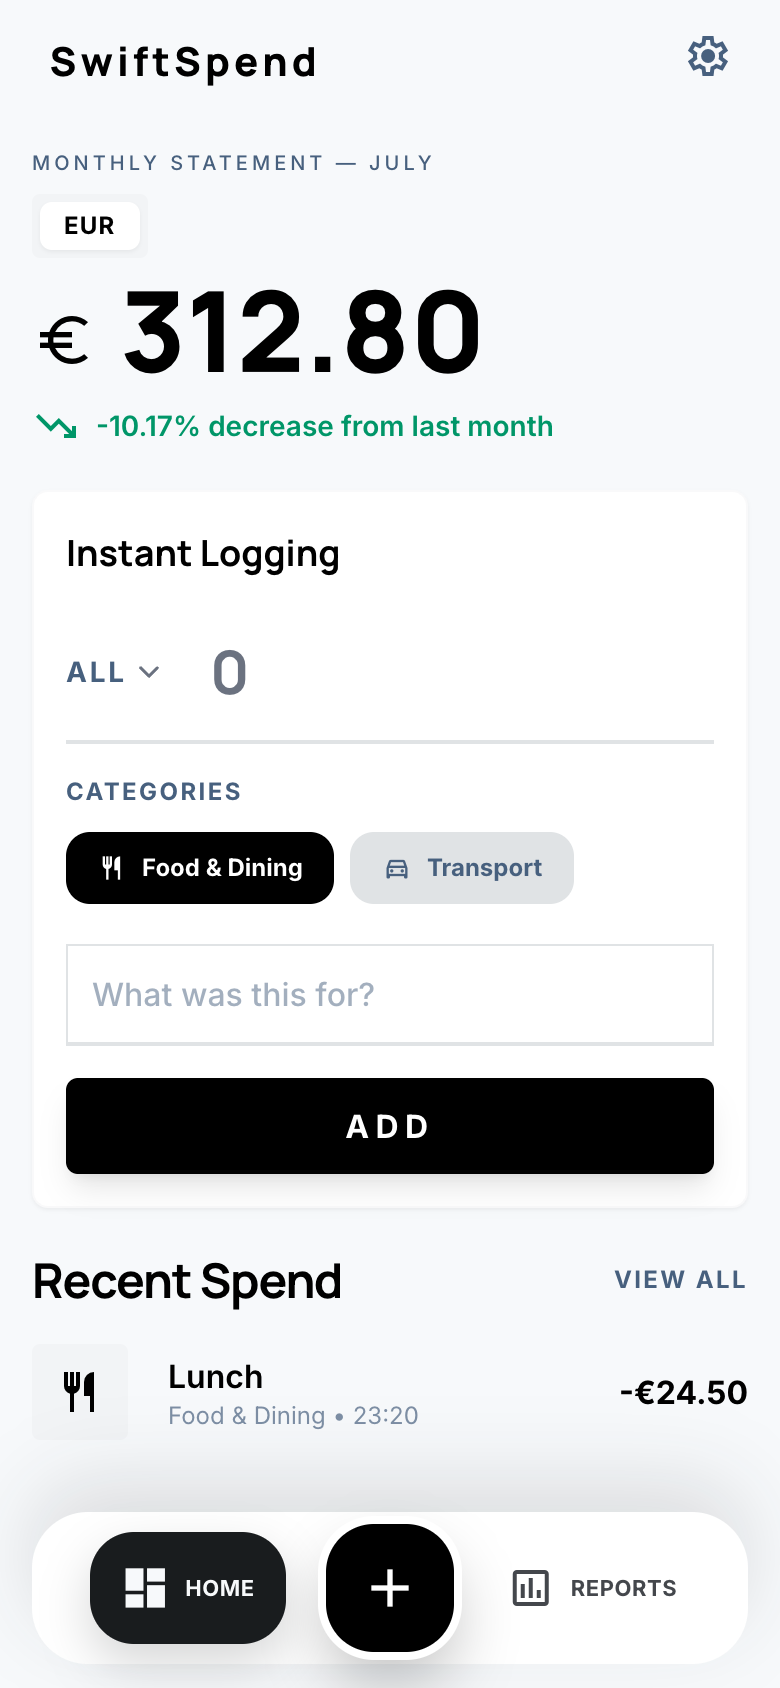
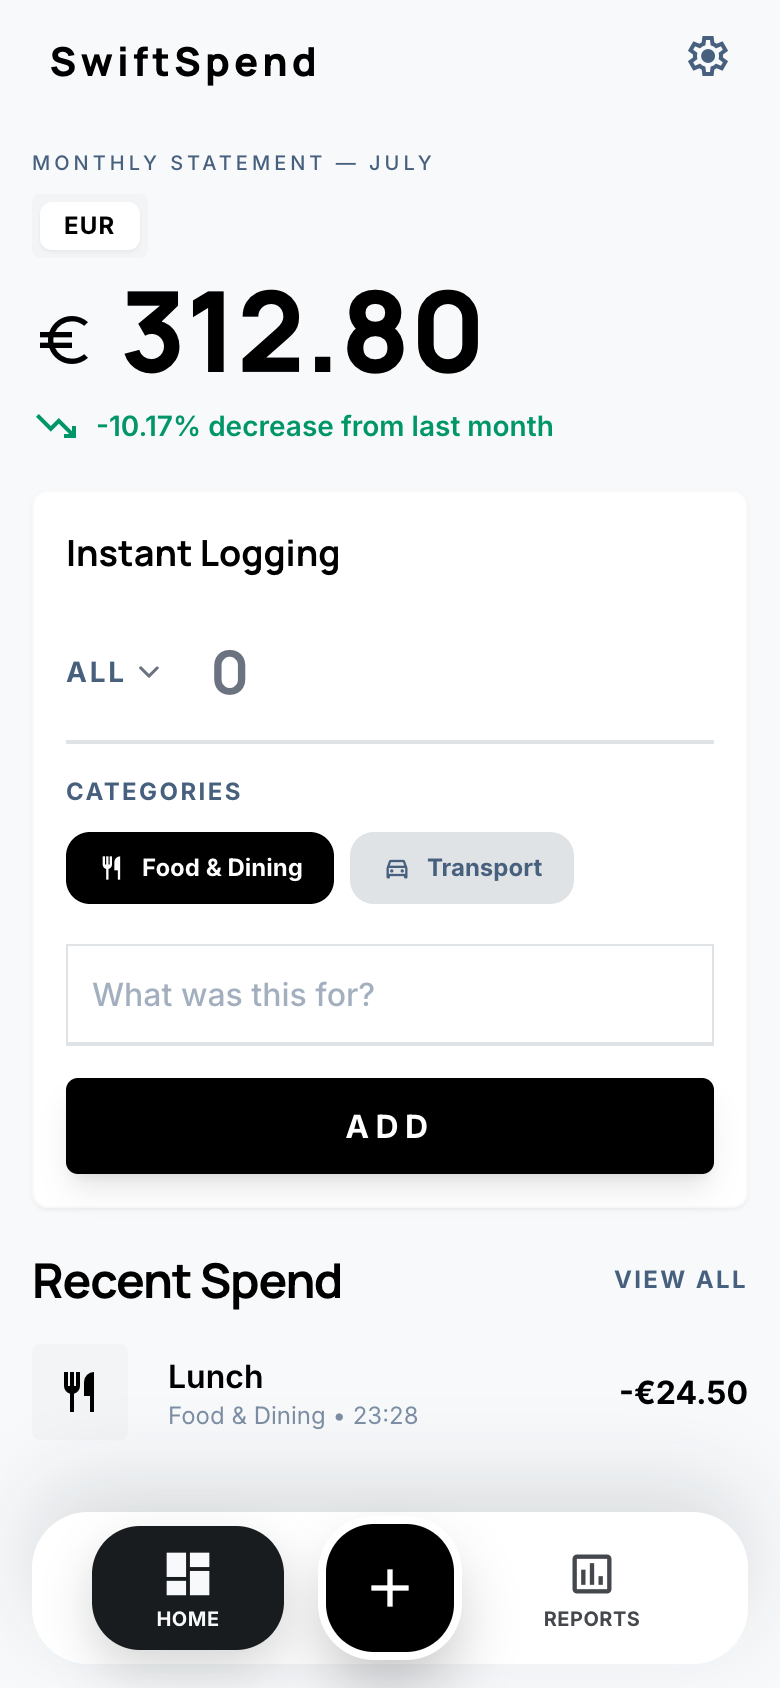
style: stack bottom nav labels

Changed region(s): [[0.1538, 0.8934, 0.3385, 0.9858], [0.6462, 0.9242, 0.8615, 0.9858]]

diff --git a/apps/web/src/components/layout/BottomNavigation.tsx b/apps/web/src/components/layout/BottomNavigation.tsx
@@ -50,19 +50,19 @@ export const BottomNavigation: React.FC = () => {
               onClick={() => navigate(item.path)}
               aria-current={item.active ? 'page' : undefined}
               className={[
-                'mx-auto flex h-14 min-w-[96px] items-center justify-center gap-2 rounded-[22px] px-4 transition-all duration-200 active:scale-95',
+                'mx-auto flex h-[62px] min-w-[96px] flex-col items-center justify-center gap-1 rounded-[24px] px-4 transition-all duration-200 active:scale-95',
                 item.active
                   ? 'bg-on-surface text-surface shadow-[0_10px_24px_rgba(25,28,30,0.18)]'
                   : 'text-on-surface-variant hover:bg-surface-container-low hover:text-on-surface',
               ].join(' ')}
             >
               <span
-                className="material-symbols-outlined text-[24px]"
+                className="material-symbols-outlined text-[26px]"
                 style={item.active ? iconFill : undefined}
               >
                 {item.icon}
               </span>
-              <span className="font-label text-[11px] font-bold uppercase tracking-wide">
+              <span className="font-label text-[10px] font-bold uppercase leading-none tracking-wide">
                 {item.label}
               </span>
             </button>
